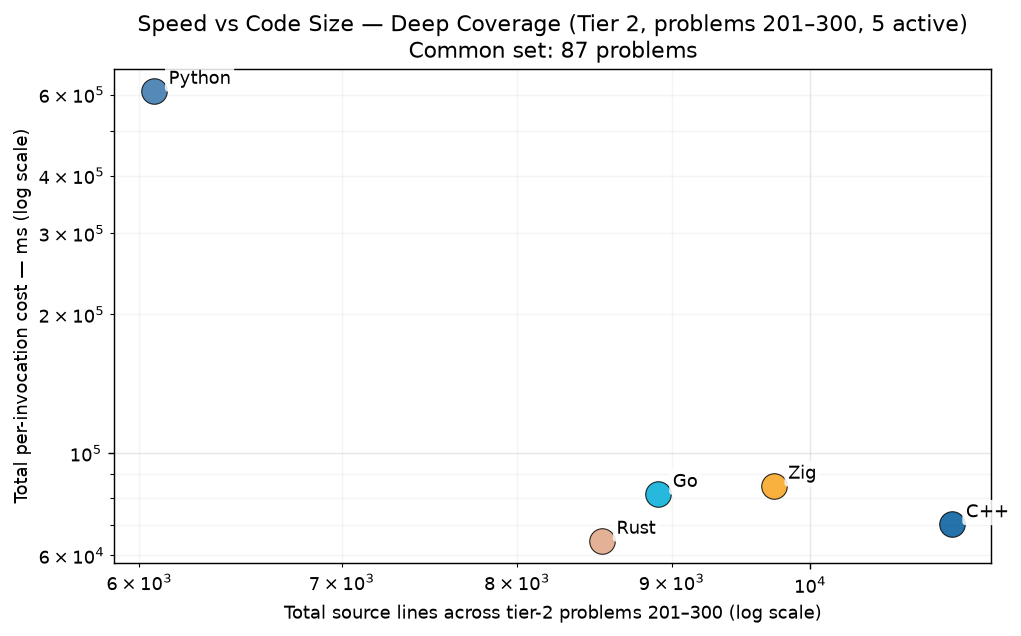
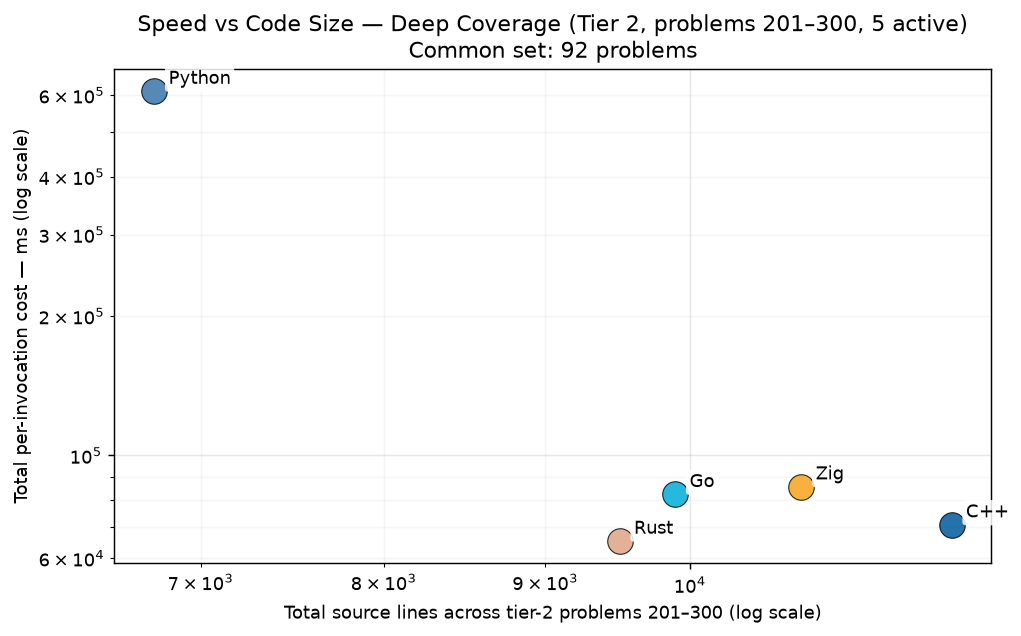
regen: +5 python tier-2 fills (289/290/292/298/299) + go p519 fix

diff --git a/RESULTS.md b/RESULTS.md
@@ -1,6 +1,6 @@
 # Project Euler — Cross-Language Benchmarks
 
-> **Scope: 4600 in-scope cells across 1000 problems × tiered languages — 3569 measured (77.6% coverage).**
+> **Scope: 4600 in-scope cells across 1000 problems × tiered languages — 3575 measured (77.7% coverage).**
 > The cross-language ranking below is computed over the **200-problem common set** (problems in 1-200 where every language has a passing measurement) — the apples-to-apples Foundation comparison surface.  Per-tier rankings and coverage detail appear further below.
 > Growing carefully — each new problem and language is audited for state-leak
 > safety, verified for answer correctness, and added only when it cleanly fits the
@@ -47,17 +47,17 @@ How much code does each language need to solve these 200 Foundation problems, an
 
 Same per-invocation metric, restricted to the deeper subset of languages (C++, Go, Python, Rust, Zig) that intentionally pushed past problem 200. The other 5 Foundation languages are out of tier scope here — they're capped at 200 by the project's language-cap policy (see JOURNEY.md).
 
-### Per-Invocation Cost (Common Set, 87 of 100 problems)
+### Per-Invocation Cost (Common Set, 92 of 100 problems)
 
 ![Per-Invocation Cost — Tier 2](charts/per_iter_total_tier2.png)
 
-| Rank | Language | Geomean (87-problem common set) | Total (sum) | Lines of code | vs Fastest |
+| Rank | Language | Geomean (92-problem common set) | Total (sum) | Lines of code | vs Fastest |
 |------|----------|--------------------:|------------:|--------------:|-----------:|
-| 1 | **Zig** | 18.29 ms | 84.93 s | 9,727 | 1.00× |
-| 2 | **Rust** | 20.43 ms | 64.51 s | 8,535 | 1.12× |
-| 3 | **C++** | 21.67 ms | 70.05 s | 11,138 | 1.18× |
-| 4 | **Go** | 23.73 ms | 81.50 s | 8,909 | 1.30× |
-| 5 | **Python** | 175.77 ms | 610.56 s | 6,068 | 9.61× |
+| 1 | **Zig** | 19.19 ms | 85.66 s | 10,847 | 1.00× |
+| 2 | **Rust** | 21.58 ms | 65.37 s | 9,501 | 1.12× |
+| 3 | **C++** | 23.26 ms | 70.91 s | 12,103 | 1.21× |
+| 4 | **Go** | 24.96 ms | 82.45 s | 9,894 | 1.30× |
+| 5 | **Python** | 181.90 ms | 612.44 s | 6,767 | 9.48× |
 
 ### Speed vs Code Size
 

diff --git a/per_problem/per_problem_201-300.md b/per_problem/per_problem_201-300.md
@@ -99,17 +99,17 @@ in tier-1 display order (native → managed → interpreted).
 | **p286** | 116.8 µs | 303.0 µs | 149.9 µs | 183.7 µs | 11.76 ms |
 | **p287** | 788.43 ms | 575.66 ms | 500.55 ms | 577.46 ms | — |
 | **p288** | 131.74 ms | 70.89 ms | 137.20 ms | 45.75 ms | 737.05 ms |
-| **p289** | 26.55 ms | 32.87 ms | 16.83 ms | 21.51 ms | — |
-| **p290** | 7.27 ms | 10.23 ms | 7.68 ms | 10.72 ms | — |
+| **p289** | 26.55 ms | 32.87 ms | 16.83 ms | 21.51 ms | 487.56 ms |
+| **p290** | 7.27 ms | 10.23 ms | 7.68 ms | 10.72 ms | 115.21 ms |
 | **p291** | 2.04 s | 4.06 s | 2.73 s | 2.00 s | 24.09 s |
-| **p292** | 408.09 ms | 532.95 ms | 425.52 ms | 495.46 ms | — |
+| **p292** | 408.09 ms | 532.95 ms | 425.52 ms | 495.46 ms | 292.09 ms |
 | **p293** | 44.26 ms | 41.35 ms | 43.76 ms | 44.67 ms | 78.58 ms |
 | **p294** | 4.82 s | 4.30 s | 7.24 s | 9.61 s | — |
 | **p295** | 537.45 ms | 326.61 ms | 252.08 ms | 507.05 ms | 3.24 s |
 | **p296** ‖ | 2.37 s (×8.3) ‖ | 3.29 s (×8.4) ‖ | 2.46 s (×7.6) ‖ | 3.73 s ‖ | 9.57 s (×3.2) ‖ |
 | **p297** | 2.9 µs | 3.0 µs | 1.1 µs | 8.0 µs | 25.8 µs |
-| **p298** | 161.16 ms | 11.37 ms | 11.81 ms | 17.01 ms | — |
-| **p299** | 257.83 ms | 271.37 ms | 265.79 ms | 402.83 ms | — |
+| **p298** | 161.16 ms | 11.37 ms | 11.81 ms | 17.01 ms | 460.78 ms |
+| **p299** | 257.83 ms | 271.37 ms | 265.79 ms | 402.83 ms | 520.20 ms |
 | **p300** ‖ | 4.97 s (×7.9) ‖ | 4.45 s (×7.9) ‖ | 4.47 s (×5.6) ‖ | 5.09 s (×9.6) ‖ | — |
 
 > ‖ — *parallel-class problem* (METHODOLOGY.md §5): every tier language fields its idiomatic parallel implementation; (×N) is the achieved parallel speedup (CPU time / wall time). These rows are never directly comparable to serial-class rows.

diff --git a/per_problem/per_problem_501-600.md b/per_problem/per_problem_501-600.md
@@ -26,7 +26,7 @@ in tier-1 display order (native → managed → interpreted).
 | **p516** | 58.59 ms | — | — |
 | **p517** | 546.84 ms | — | 206.25 ms |
 | **p518** | 2.38 s | — | — |
-| **p519** | 13.52 s | — | ✗ fail |
+| **p519** | 13.52 s | — | 5.29 s |
 | **p520** | 200.09 ms | — | 611.5 µs† |
 | **p521** | 762.29 ms | — | 2.37 s |
 | **p522** | 4.27 s | — | 1.01 s |
@@ -110,8 +110,6 @@ in tier-1 display order (native → managed → interpreted).
 | **p600** | 215.41 ms | — | — |
 
 > ‖ — *parallel-class problem* (METHODOLOGY.md §5): every tier language fields its idiomatic parallel implementation; (×N) is the achieved parallel speedup (CPU time / wall time). These rows are never directly comparable to serial-class rows.
-
-> ✗ — *process-contract failure* (METHODOLOGY.md §2): the row is recorded as a failure with its reason class (untimed-work / parallel-execution) — there is no path by which a contract-breaking measurement appears as a fast time.
 
 > † — *no corroboration*: no two samples agreed within 5%; median recorded, environment flagged for re-bench (METHODOLOGY.md §3).
 
